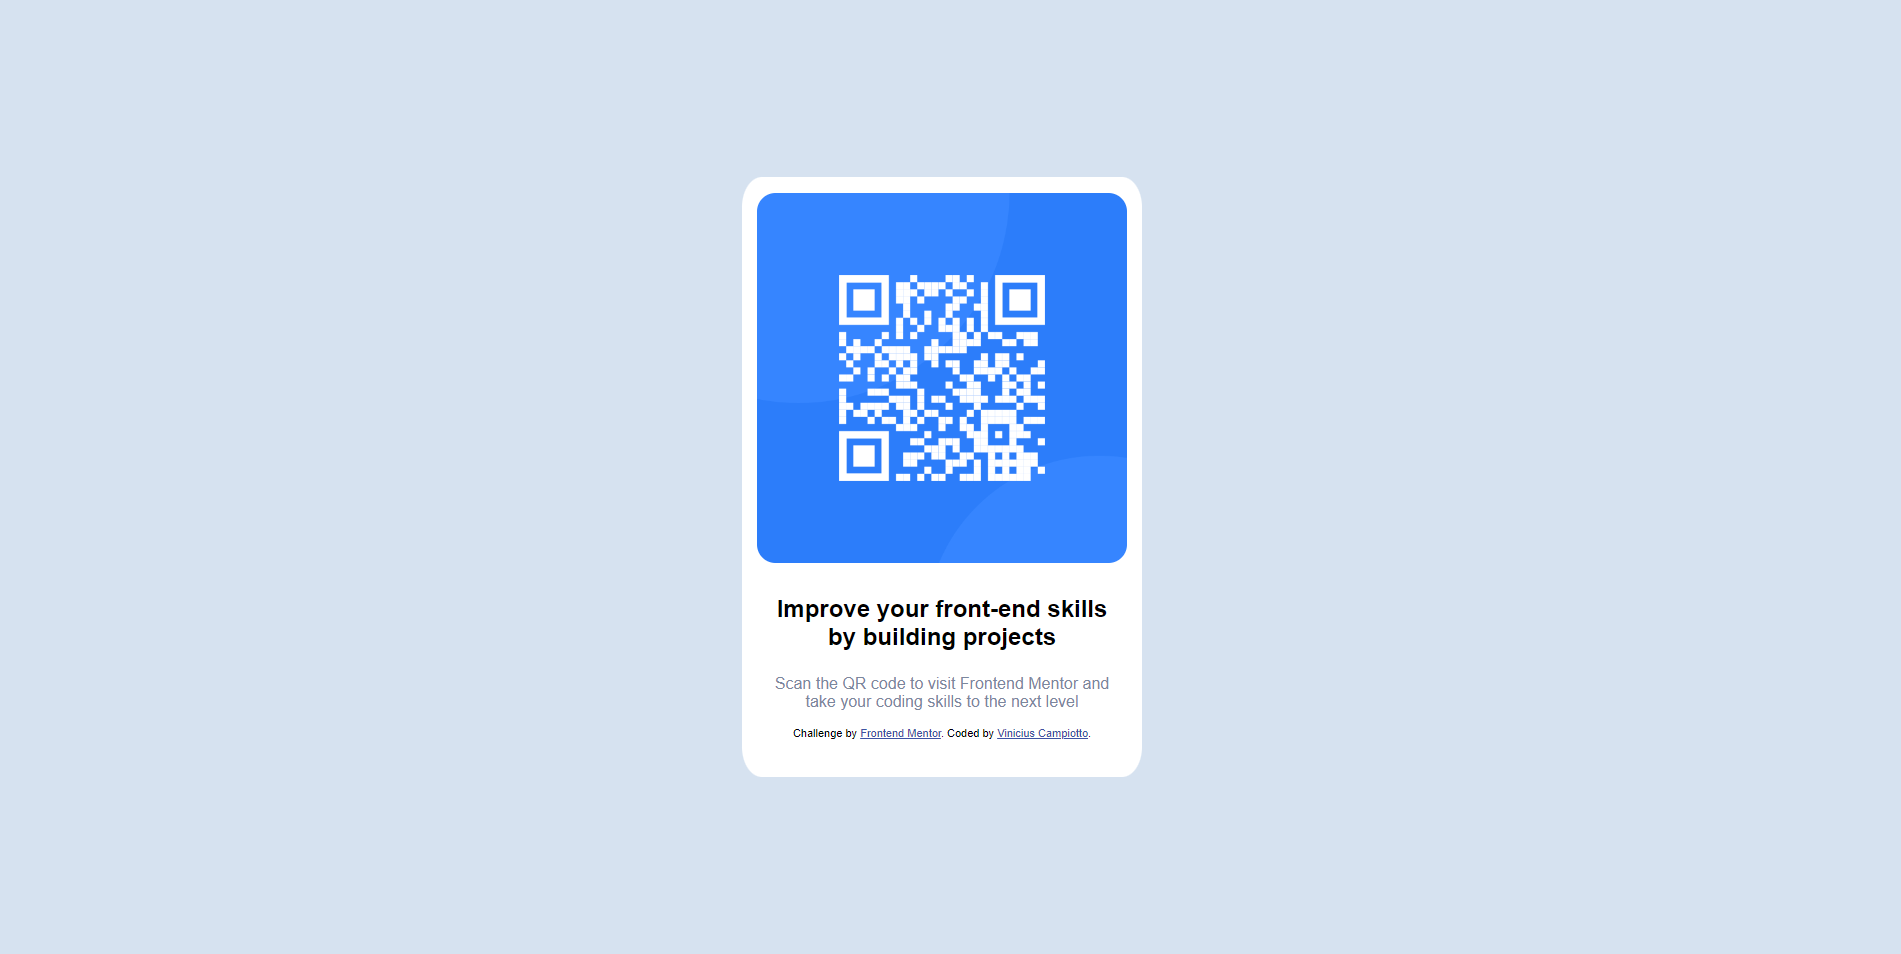
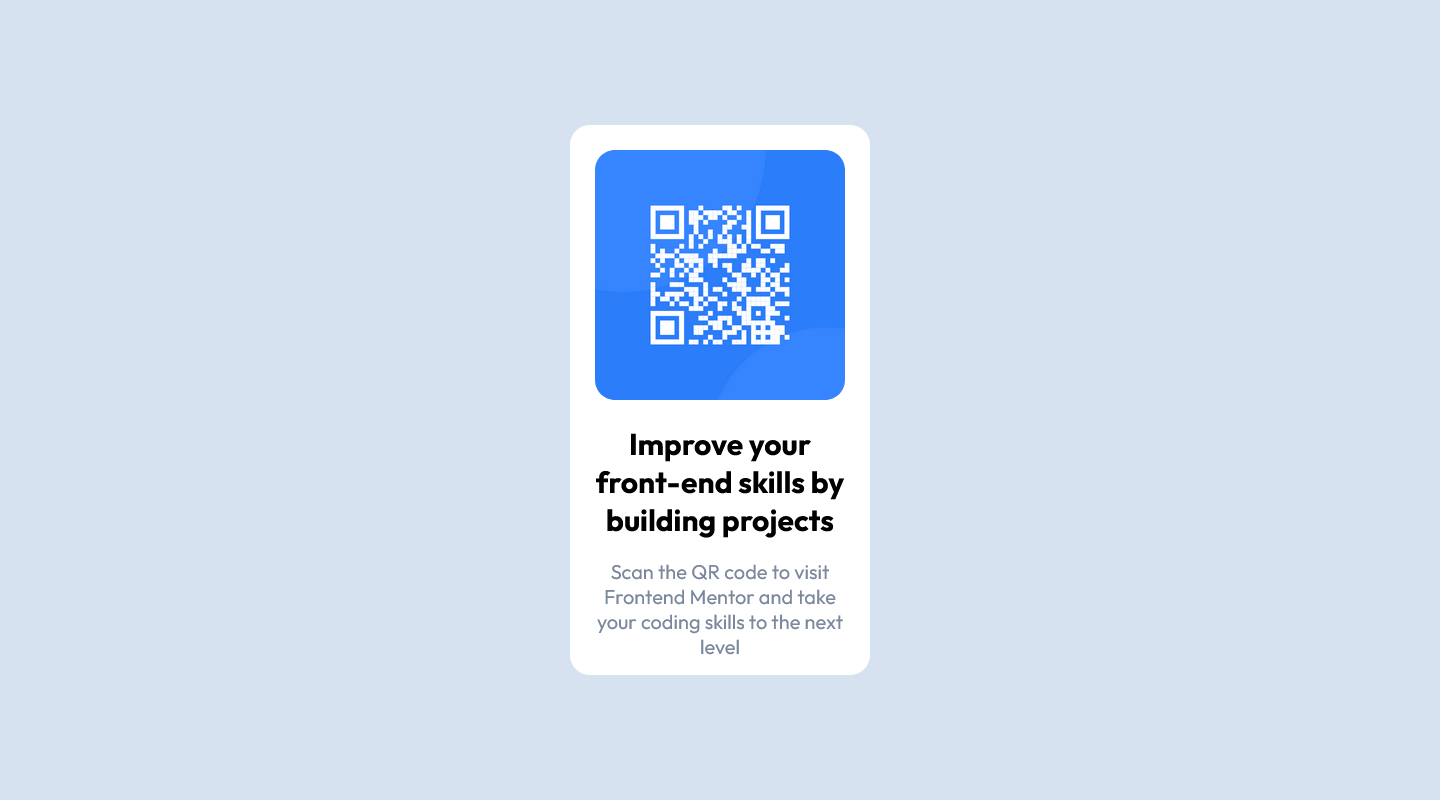
v.1

Changed region(s): [[0.375, 0.1562, 0.625, 0.8438]]

diff --git a/CSS/style.css b/CSS/style.css
@@ -1,69 +1,68 @@
-* {
-    padding: 0;
-    margin: 0;
- 
+@import url("https://fonts.googleapis.com/css2?family=Outfit:wght@400;700&display=swap");
+:root {
+  --white: hsl(0, 0%, 100%);
+  --light-gray: hsl(212, 45%, 89%);
+  --grayish-blue: hsl(220, 15%, 55%);
+  --dark-blue: hsl(218, 44%, 22%);
 }
-@font-face {
-    font-family: Outfit;
-    src: url(https://fonts.google.com/specimen/Outfit);
+* {
+  padding: 0;
+  margin: 0;
+  font-family: "Outfit", sans-serif;
+  font-weight: 400px;
+  font-size: 14px;
 }
 
 .container {
-    display: flex;
-    width: 100vw;
-    height: 100vh;
-    background: hsl(212, 45%, 89%);
-    flex-direction: column;
-    justify-content: center;
-    align-items: center;
-    font-family: 'Outfit', sans-serif;
-    
-    }
-
-   
-    .box {
-    width: 400px;
-    height: 600px;
-    background: #fff;
-    border-radius: 5%;
-    
-    
-    }
-  
-    img {
-        display: flex;
-        max-width: 370px;
-        align-items: center;
-        justify-content: center;
-        border-radius: 5%;
-        margin: 1rem auto;
-    }
-
-    h1 {
-        text-align: center;
-        margin-top: 2rem;
-        margin-bottom: 1.5rem;
-        margin-right: 1.5rem;
-        margin-left: 1.5rem;
-        font-size: 1.5rem;
-
-    }
-
-    p {
-        
-        text-align: center;
-        margin-bottom: 1rem;
-        margin-left: 2rem;
-        margin-right: 2rem;
-        color: hsl(220, 15%, 55%);
-       }
-
-.attribution p {
-    font-size: 11px;
-    text-align: center;
-    color: black;
+  display: flex;
+  height: 100vh;
+  background: var(--light-gray);
+  justify-content: center;
+  align-items: center;
 }
 
-.attribution a {
-    color: hsl(228, 45%, 44%);
+.box {
+  width: 250px;
+  height: 500px;
+  background: var(--white);
+  border-radius: 20px;
+  display: flex;
+  flex-direction: column;
+  padding: 25px;
+}
+.qr-img {
+  display: flex;
+  background: url(../img/image-qr-code.png);
+  background-size: contain;
+  background-repeat: no-repeat;
+  height: 100%;
+  position: relative;
+  border-radius: 20px;
+}
+.info {
+  display: flex;
+  flex-direction: column;
+  margin-top: 25px;
+  width: 100%;
+  height: 225px;
+}
+h1 {
+  text-align: center;
+  font-size: 30px;
+  font-weight: 700;
+}
+
+p {
+  margin-top: 20px;
+  text-align: center;
+  font-size: 20px;
+  color: var(--grayish-blue);
+}
+@media screen and (max-width: 372px) {
+  .container {
+  }
+  .box {
+  }
+  .qr-img {
+  }
 }

diff --git a/index.html b/index.html
@@ -4,38 +4,35 @@
 <head>
     <meta charset="UTF-8">
     <meta name="viewport" content="width=device-width, initial-scale=1.0">
-    <!-- displays site properly based on user's device -->
+    <title>Document</title>
+</head>
 
+<body>
+
+</body>
+
+</html>
+<html lang="en">
+
+<head>
+    <meta charset="UTF-8">
+    <meta name="viewport" content="width=device-width, initial-scale=1.0">
     <link rel="icon" type="image/png" sizes="32x32" href="./img/favicon-32x32.png">
     <link rel="stylesheet" href="./CSS/style.css">
-
     <title>Frontend Mentor | QR code component</title>
-
-    <!-- Feel free to remove these styles or customise in your own stylesheet 👍 -->
-
 </head>
 
 <body>
     <div class="container">
         <div class="box">
-            <div>
-                <img src="./img/image-qr-code.png" />
+            <div class="qr-img">
             </div>
-
-            <div>
+            <div class="info">
                 <h1>Improve your front-end skills by building projects</h1>
-
                 <p>Scan the QR code to visit Frontend Mentor and take your coding skills to the next level
                 </p>
             </div>
-
-            <div class="attribution">
-                <p>Challenge by <a href="https://www.frontendmentor.io?ref=challenge" target="_blank">Frontend
-                        Mentor</a>.
-                    Coded by <a href="#">Vinicius Campiotto</a>.</p>
-            </div>
         </div>
-    </div>
     </div>
 </body>
 

diff --git a/README.md b/README.md
@@ -4,11 +4,7 @@ This is a solution to the [QR code component challenge on Frontend Mentor](https
 
 ### Screenshot
 
-![](./screenshot.jpg.png)
-
-### Links
-
-- Solution URL: [Add solution URL here](https://your-solution-url.com)
+![](screenshot.jpg.png)
 
 ### Built with
 
@@ -16,15 +12,7 @@ This is a solution to the [QR code component challenge on Frontend Mentor](https
 - CSS custom properties
 - Flexbox
 
-### What I learned
-
-I developed this project to make my HTML5 and CSS foundations stronger. Paying attention to semantics and adjusting styles in CSS.
-
-### Continued development
-
-Carry out the execution of a project made from scratch, being built little by little. It's very satisfying! Even though at times I feel stuck, this will pass. And I will add more knowledge.
-
 ## Author
 
-- Linkedin - [Vinicius José Campiotto dos Santos](https://www.linkedin.com/in/vinicius-campiotto-421233250/)
+- Linkedin - [Vinicius Campiotto](https://www.linkedin.com/in/vinicius-campiotto-421233250/)
 - Frontend Mentor - [@Campiottocodes](https://www.frontendmentor.io/profile/Campiottocodes)
